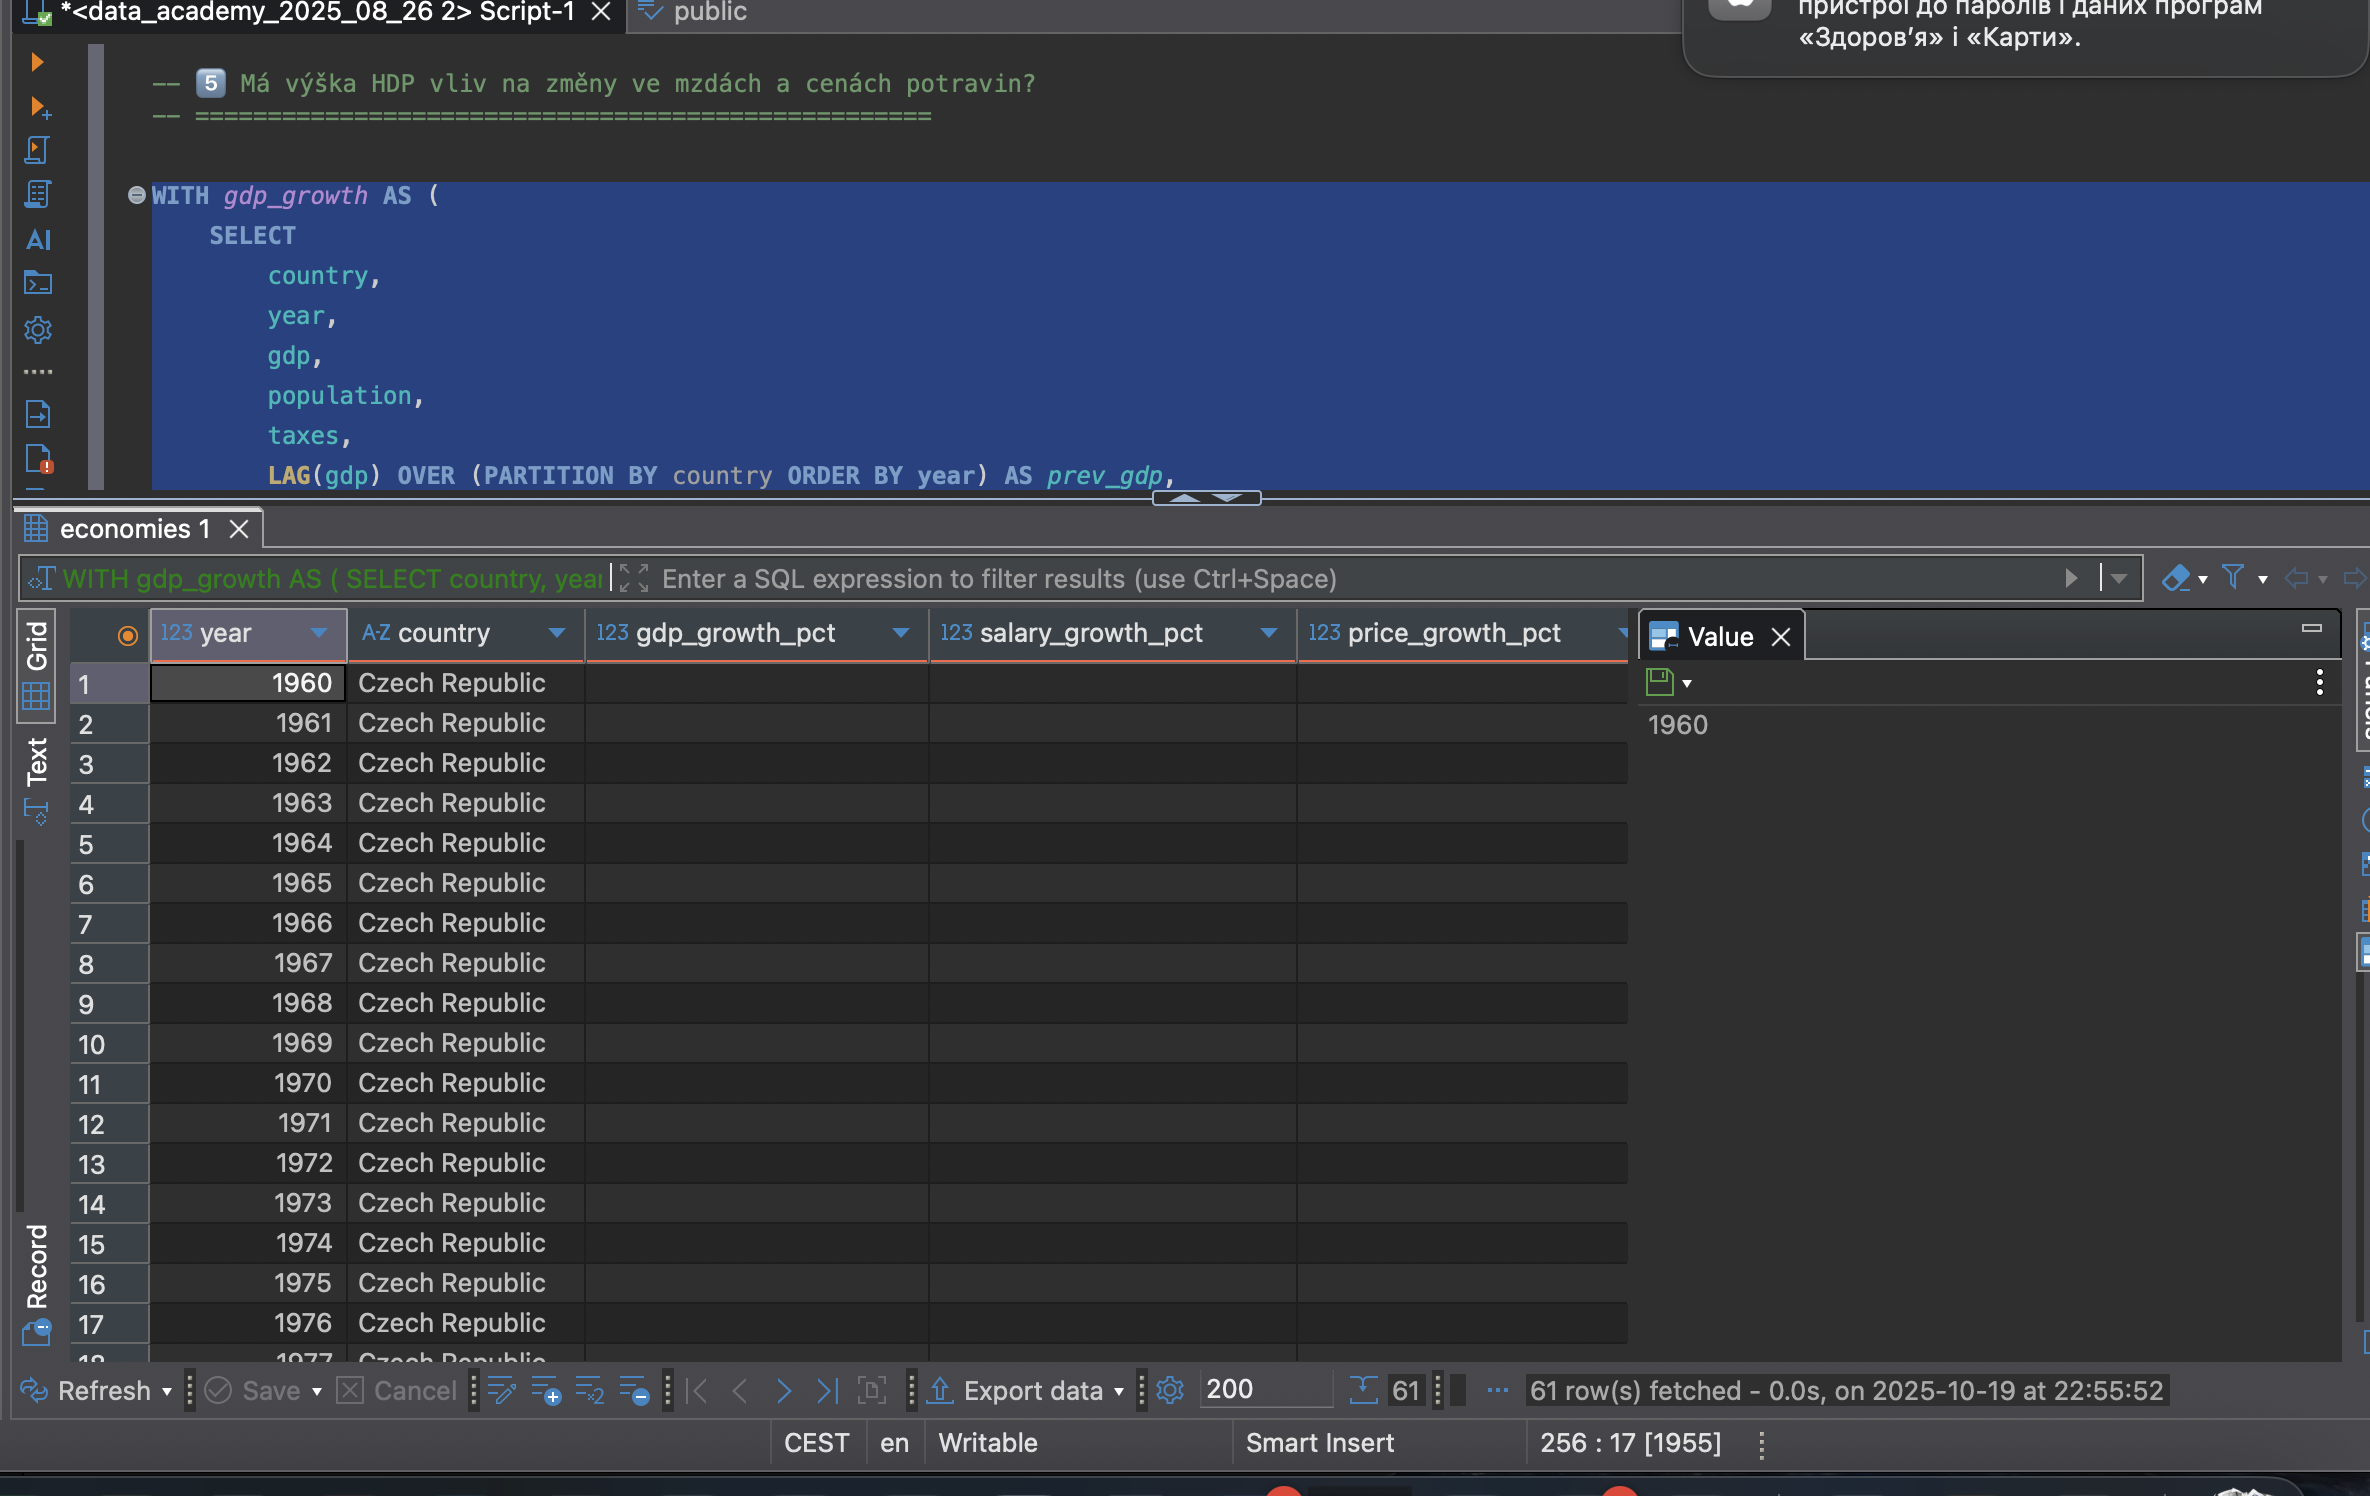
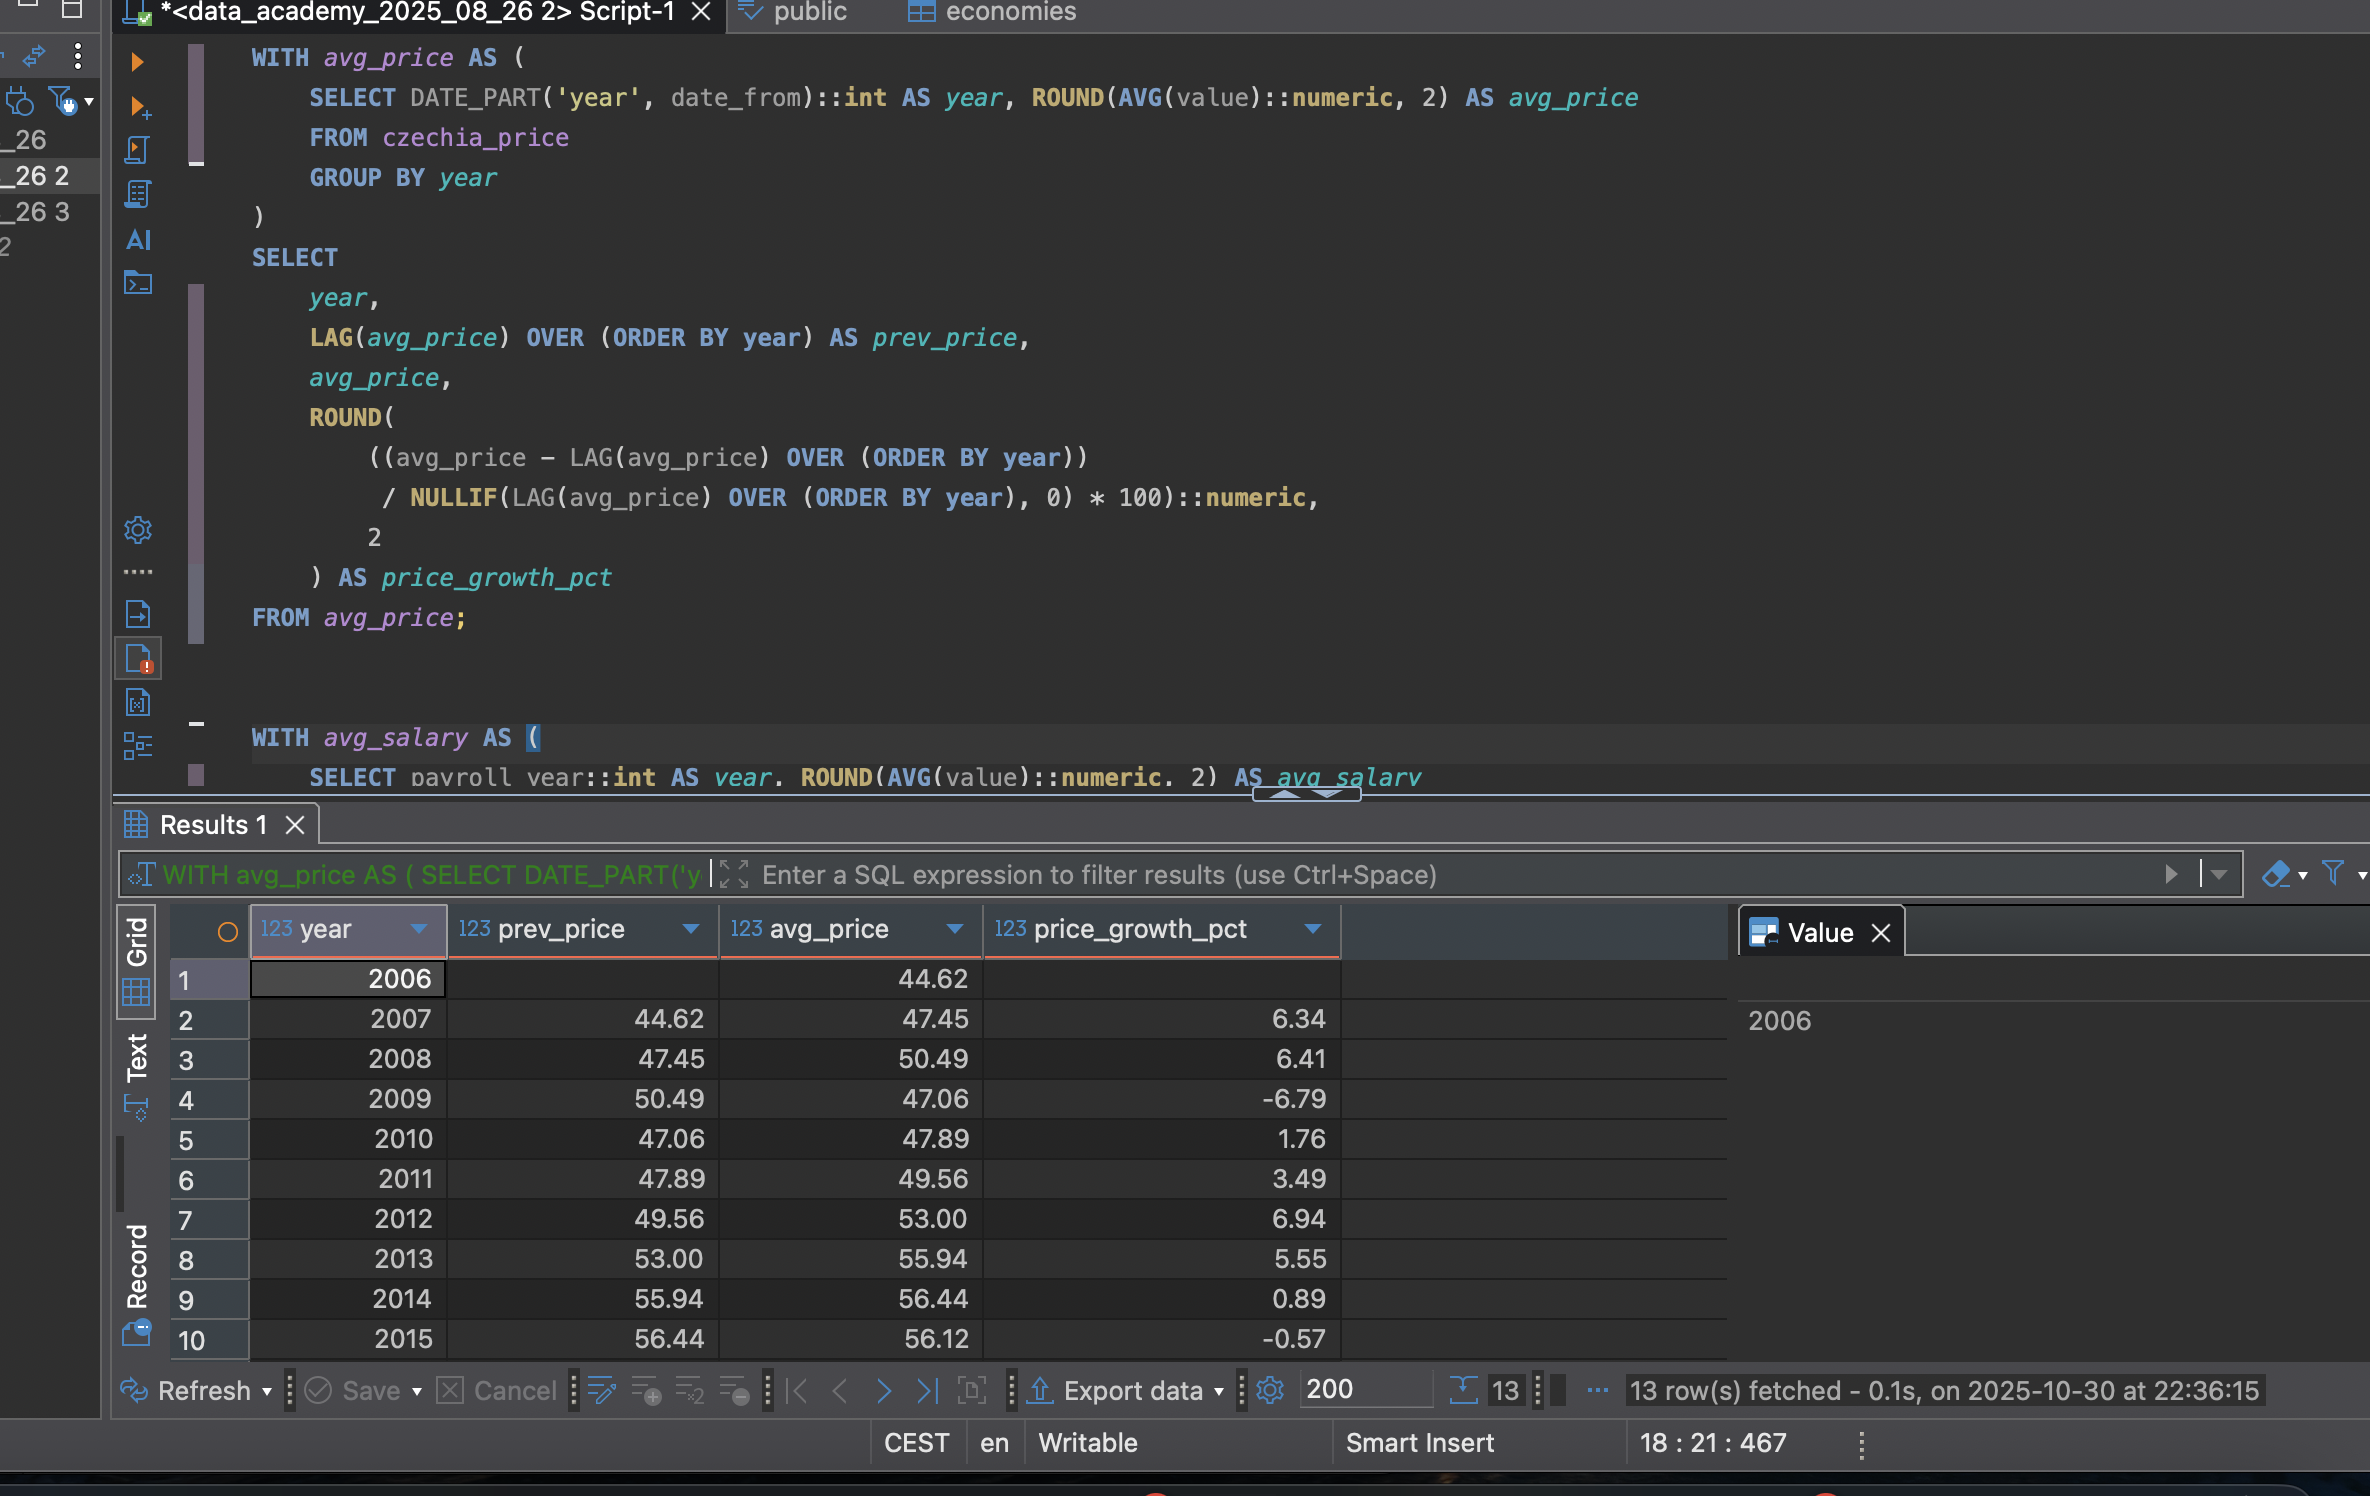
Updated 04_price_growth.csv, screenshot and README

diff --git a/README.md b/README.md
@@ -70,7 +70,7 @@ ORDER BY year;
 
 ## Dotaz 4 – Růst cen v procentech
 **Popis:** Počítá procentuální změnu průměrných cen mezi jednotlivými roky.  
-*(Výsledek je prázdný – pro dané roky nejsou dostupná úplná data.)*
+
 
 ```sql
 WITH avg_price AS (
@@ -89,7 +89,7 @@ SELECT
     ) AS price_growth_pct
 FROM avg_price;
 ```
- 
+ [04_price_growth.csv](./csv.project/04_price_growth.csv)
 
 ---
 
